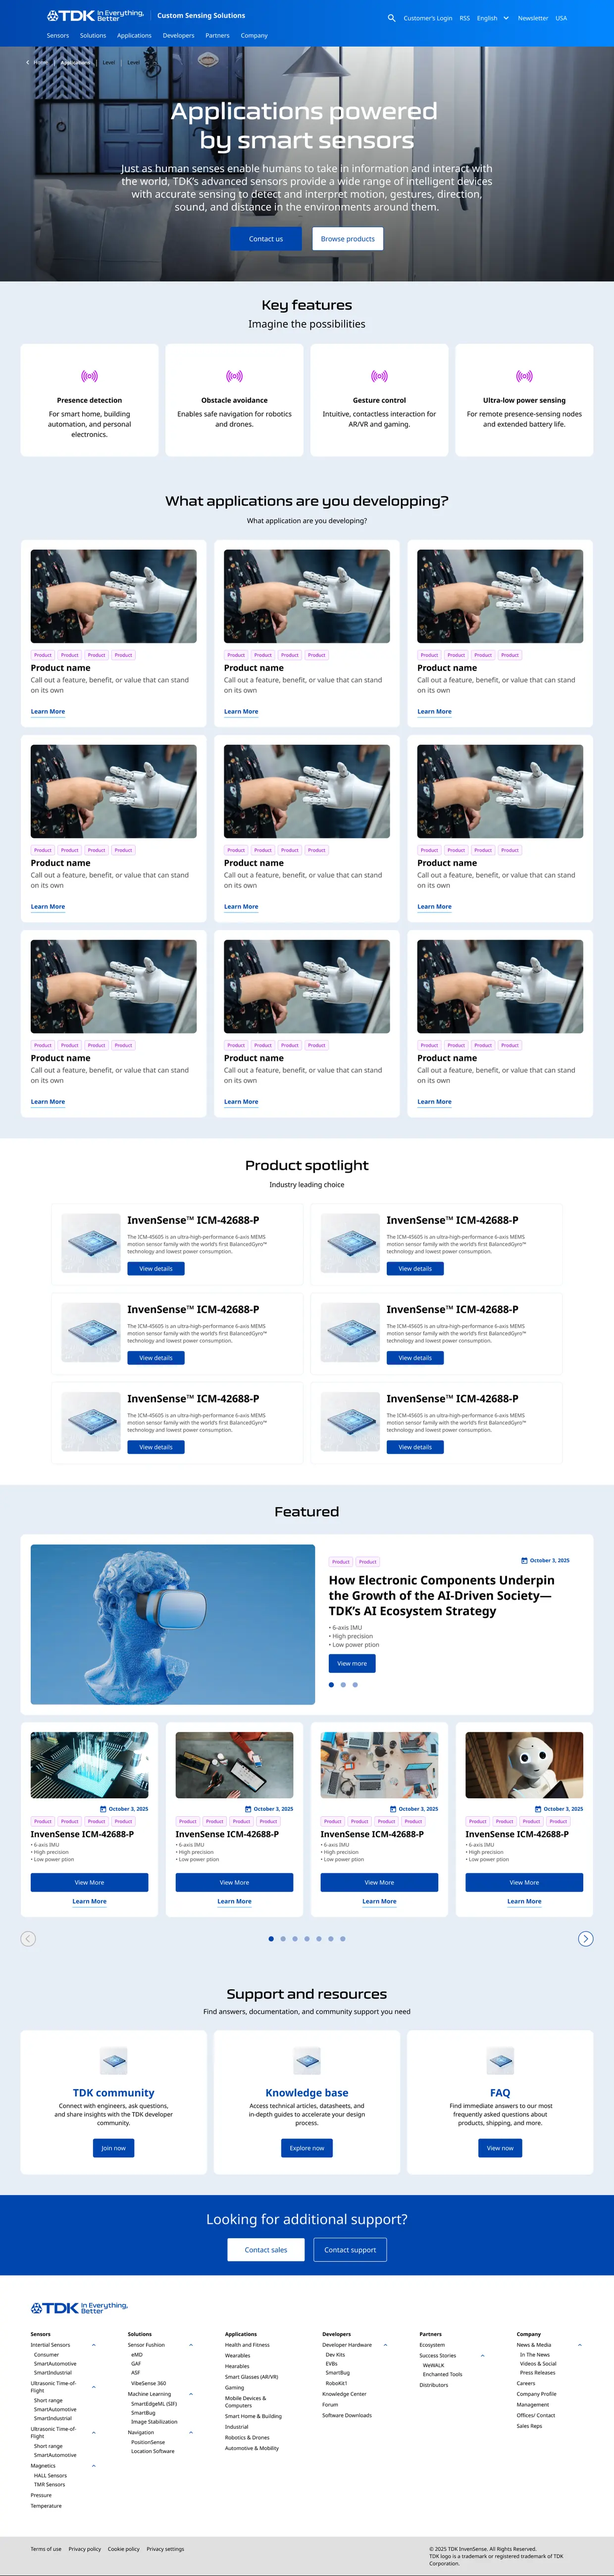
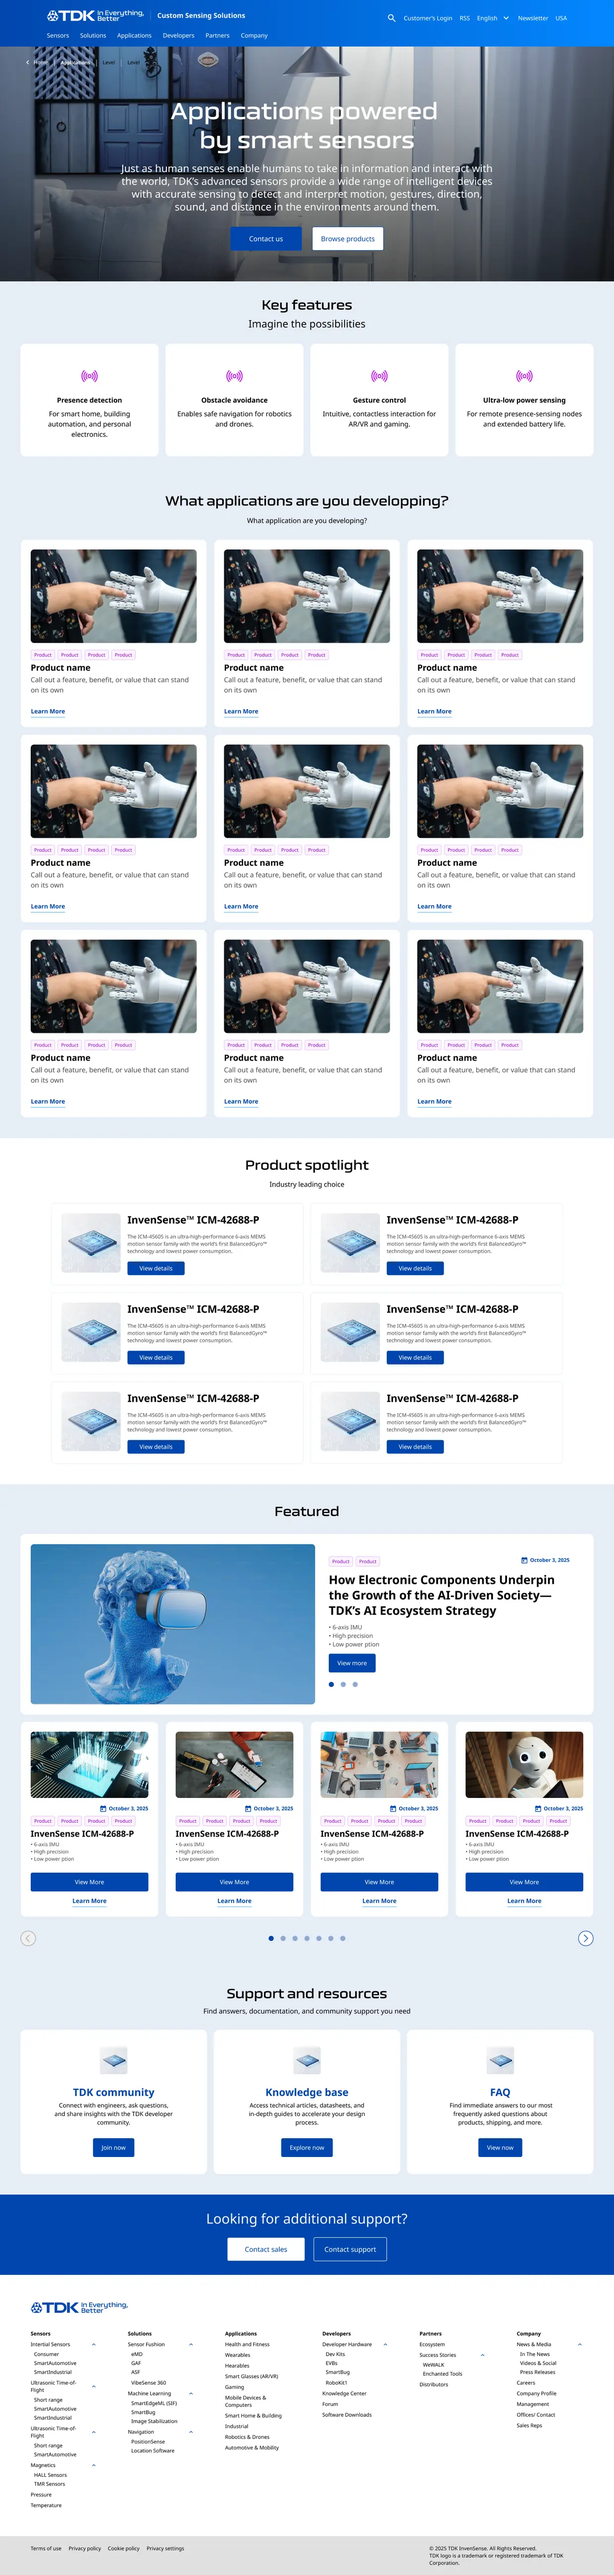
Crop the black off the product wireframe, and run the system boards small
The product wireframe carried a 4px black frame and 854px of empty black
canvas below its last row of content. I checked the block before cutting
it: pure black, not one pixel of anything. Both are gone, and so is a
stray black row at the foot of the applications screenshot.

The design-system boards were running two to a row at roughly 600px.
They are screenshots of a working file, so at that size they were mostly
magnifying their own softness. They now run three to a row at 371px,
which puts every one of them at better than twice its own pixel density.
The wide microinteractions board spans the final row rather than sitting
alone in a third of one.

Tiles share one height so the captions across a row sit on one line, and
each tile scrolls on its own, since the boards are taller than any row
can give them.

Claude-Session: https://claude.ai/code/session_01GRCUht8Xs69ANeh7eZUP1Q

diff --git a/assets/js/img-sizes.js b/assets/js/img-sizes.js
@@ -1,2 +1,2 @@
 /* generated by scripts/image_sizes.py — intrinsic sizes, so lazy images reserve their box */
-window.IMG_SIZES = {"assets/img/clients/abbott.png":[640,161],"assets/img/clients/cea.png":[640,131],"assets/img/clients/disney-store.png":[640,178],"assets/img/clients/onmed.png":[500,148],"assets/img/clients/parle.png":[200,88],"assets/img/clients/popular.png":[454,84],"assets/img/covers/disney-store.webp":[1600,900],"assets/img/covers/pregnancy-app.webp":[1600,900],"assets/img/covers/tdk-invensense.webp":[1600,900],"assets/img/favicon.png":[128,128],"assets/img/life/colouring-book.webp":[900,1200],"assets/img/life/digital-illustration.webp":[1155,1200],"assets/img/life/event-install.webp":[1200,900],"assets/img/life/framed-portraits.webp":[1200,900],"assets/img/life/mountains.webp":[1200,900],"assets/img/life/muskan-bio.webp":[825,1100],"assets/img/life/painting-signage.webp":[900,1200],"assets/img/life/vacation-sign.webp":[900,1200],"assets/img/projects/capshift-01.jpg":[1440,900],"assets/img/projects/capshift-02.jpg":[1440,900],"assets/img/projects/capshift-03.jpg":[1440,900],"assets/img/projects/capshift-04.jpg":[1440,900],"assets/img/projects/mama-01.jpg":[1500,1009],"assets/img/projects/mama-02.jpg":[1500,842],"assets/img/projects/mama-03.jpg":[1500,842],"assets/img/projects/mama-04.jpg":[1300,1657],"assets/img/projects/mama-05.jpg":[390,2497],"assets/img/projects/mama-06.jpg":[390,1622],"assets/img/projects/mama-07.jpg":[390,1333],"assets/img/projects/mama-08.jpg":[390,844],"assets/img/projects/mama-09.jpg":[390,844],"assets/img/projects/parle-01.jpg":[700,1555],"assets/img/projects/parle-02.jpg":[700,1555],"assets/img/projects/parle-03.jpg":[600,1333],"assets/img/projects/parle-04.jpg":[700,1555],"assets/img/projects/parle-05.jpg":[700,1555],"assets/img/projects/popular-01.jpg":[700,1514],"assets/img/projects/popular-02.jpg":[700,1514],"assets/img/projects/popular-03.jpg":[700,1514],"assets/img/projects/popular-04.jpg":[700,1514],"assets/img/projects/popular-05.jpg":[700,1514],"assets/img/projects/tdk/ds-badges.webp":[854,944],"assets/img/projects/tdk/ds-buttons.webp":[940,2788],"assets/img/projects/tdk/ds-checkboxes.webp":[844,1324],"assets/img/projects/tdk/ds-homepage-components.webp":[792,1868],"assets/img/projects/tdk/ds-iconography.webp":[980,1597],"assets/img/projects/tdk/ds-microinteractions.webp":[1042,470],"assets/img/projects/tdk/ds-textinput.webp":[980,1239],"assets/img/projects/tdk/ui-application-detail-desktop.webp":[1240,7683],"assets/img/projects/tdk/ui-application-detail-mobile.webp":[750,14142],"assets/img/projects/tdk/ui-applications-desktop.webp":[1240,5194],"assets/img/projects/tdk/ui-applications-mobile.webp":[750,8718],"assets/img/projects/tdk/ui-community-desktop.webp":[1240,2773],"assets/img/projects/tdk/ui-community-mobile.webp":[750,6254],"assets/img/projects/tdk/ui-product-mobile.webp":[750,14489],"assets/img/projects/tdk/wf-application-detail.webp":[1080,8341],"assets/img/projects/tdk/wf-applications.webp":[1080,5314],"assets/img/projects/tdk/wf-community.webp":[1080,2413],"assets/img/projects/tdk/wf-home.webp":[1080,3799],"assets/img/projects/tdk/wf-product.webp":[1080,5564]};
+window.IMG_SIZES = {"assets/img/clients/abbott.png":[640,161],"assets/img/clients/cea.png":[640,131],"assets/img/clients/disney-store.png":[640,178],"assets/img/clients/onmed.png":[500,148],"assets/img/clients/parle.png":[200,88],"assets/img/clients/popular.png":[454,84],"assets/img/covers/disney-store.webp":[1600,900],"assets/img/covers/pregnancy-app.webp":[1600,900],"assets/img/covers/tdk-invensense.webp":[1600,900],"assets/img/favicon.png":[128,128],"assets/img/life/colouring-book.webp":[900,1200],"assets/img/life/digital-illustration.webp":[1155,1200],"assets/img/life/event-install.webp":[1200,900],"assets/img/life/framed-portraits.webp":[1200,900],"assets/img/life/mountains.webp":[1200,900],"assets/img/life/muskan-bio.webp":[825,1100],"assets/img/life/painting-signage.webp":[900,1200],"assets/img/life/vacation-sign.webp":[900,1200],"assets/img/projects/capshift-01.jpg":[1440,900],"assets/img/projects/capshift-02.jpg":[1440,900],"assets/img/projects/capshift-03.jpg":[1440,900],"assets/img/projects/capshift-04.jpg":[1440,900],"assets/img/projects/mama-01.jpg":[1500,1009],"assets/img/projects/mama-02.jpg":[1500,842],"assets/img/projects/mama-03.jpg":[1500,842],"assets/img/projects/mama-04.jpg":[1300,1657],"assets/img/projects/mama-05.jpg":[390,2497],"assets/img/projects/mama-06.jpg":[390,1622],"assets/img/projects/mama-07.jpg":[390,1333],"assets/img/projects/mama-08.jpg":[390,844],"assets/img/projects/mama-09.jpg":[390,844],"assets/img/projects/parle-01.jpg":[700,1555],"assets/img/projects/parle-02.jpg":[700,1555],"assets/img/projects/parle-03.jpg":[600,1333],"assets/img/projects/parle-04.jpg":[700,1555],"assets/img/projects/parle-05.jpg":[700,1555],"assets/img/projects/popular-01.jpg":[700,1514],"assets/img/projects/popular-02.jpg":[700,1514],"assets/img/projects/popular-03.jpg":[700,1514],"assets/img/projects/popular-04.jpg":[700,1514],"assets/img/projects/popular-05.jpg":[700,1514],"assets/img/projects/tdk/ds-badges.webp":[854,944],"assets/img/projects/tdk/ds-buttons.webp":[940,2788],"assets/img/projects/tdk/ds-checkboxes.webp":[844,1324],"assets/img/projects/tdk/ds-homepage-components.webp":[792,1868],"assets/img/projects/tdk/ds-iconography.webp":[980,1597],"assets/img/projects/tdk/ds-microinteractions.webp":[1042,470],"assets/img/projects/tdk/ds-textinput.webp":[980,1239],"assets/img/projects/tdk/ui-application-detail-desktop.webp":[1240,7683],"assets/img/projects/tdk/ui-application-detail-mobile.webp":[750,14142],"assets/img/projects/tdk/ui-applications-desktop.webp":[1240,5193],"assets/img/projects/tdk/ui-applications-mobile.webp":[750,8718],"assets/img/projects/tdk/ui-community-desktop.webp":[1240,2773],"assets/img/projects/tdk/ui-community-mobile.webp":[750,6254],"assets/img/projects/tdk/ui-product-mobile.webp":[750,14489],"assets/img/projects/tdk/wf-application-detail.webp":[1080,8341],"assets/img/projects/tdk/wf-applications.webp":[1080,5314],"assets/img/projects/tdk/wf-community.webp":[1080,2413],"assets/img/projects/tdk/wf-home.webp":[1080,3799],"assets/img/projects/tdk/wf-product.webp":[1080,4879]};

diff --git a/assets/js/data.js b/assets/js/data.js
@@ -450,29 +450,17 @@ const PROJECTS = [
         ]
       },
       {
-        kind: 'duo',
+        kind: 'grid',
+        note: 'Pages from the library. Each tile scrolls on its own; the boards are taller than the room a row can give them.',
         items: [
           { src: 'assets/img/projects/tdk/ds-buttons.webp', caption: 'Buttons: primary, secondary and ghost, in three sizes, across default, hover, active and disabled' },
-          { src: 'assets/img/projects/tdk/ds-textinput.webp', caption: 'Text input: label, placeholder, icon and helper variants, with error messaging' }
-        ],
-        long: true
-      },
-      {
-        kind: 'duo',
-        items: [
+          { src: 'assets/img/projects/tdk/ds-textinput.webp', caption: 'Text input: label, placeholder, icon and helper variants, with error messaging' },
+          { src: 'assets/img/projects/tdk/ds-checkboxes.webp', caption: 'Checkboxes: default, hover, checked, disabled and error, with helper text' },
           { src: 'assets/img/projects/tdk/ds-badges.webp', caption: 'Badges: three sizes and five semantic tones, annotated' },
-          { src: 'assets/img/projects/tdk/ds-checkboxes.webp', caption: 'Checkboxes: default, hover, checked, disabled and error, with helper text' }
-        ],
-        long: true
-      },
-      { kind: 'full', src: 'assets/img/projects/tdk/ds-iconography.webp', caption: 'The icon set: one weight, one grid, drawn for scannability at small sizes', frame: 'plain', long: true },
-      {
-        kind: 'duo',
-        items: [
-          { src: 'assets/img/projects/tdk/ds-microinteractions.webp', caption: 'Microinteractions: the eight icons that change state on interaction, paired with their active form' },
-          { src: 'assets/img/projects/tdk/ds-homepage-components.webp', caption: 'Page-level patterns: segmented tabs, stats, partner brands, pagination, carousels' }
-        ],
-        long: true
+          { src: 'assets/img/projects/tdk/ds-iconography.webp', caption: 'The icon set: one weight, one grid, drawn for scannability at small sizes' },
+          { src: 'assets/img/projects/tdk/ds-homepage-components.webp', caption: 'Page-level patterns: segmented tabs, stats, partner brands, pagination, carousels' },
+          { src: 'assets/img/projects/tdk/ds-microinteractions.webp', caption: 'Microinteractions: the eight icons that change state on interaction, paired with their active form', span: true }
+        ]
       },
 
       /* ---------- responsive ---------- */

diff --git a/assets/js/project.js b/assets/js/project.js
@@ -329,6 +329,26 @@
       '</section>';
     },
 
+    /* Small boards, several to a row. Design-system sheets are screenshots
+       of a working file: shown large they magnify their own softness, so
+       they run three-up and every one lands well under its own width. */
+    grid: function (b) {
+      return '<section class="blk reveal">' +
+        (b.title ? '<h2 class="blk__title">' + E(b.title) + '</h2>' : '') +
+        (b.note ? '<p class="blk__note">' + E(b.note) + '</p>' : '') +
+        '<div class="gridshots">' + (b.items || []).map(function (it) {
+          return '<figure class="gridshot' + (it.span ? ' gridshot--span' : '') + '">' +
+            '<div class="shot shot--tile"' + capStyle(it.src, it.device) +
+              scrollable(true, it.caption) + '>' +
+              '<img src="' + it.src + '"' + dims(it.src) + ' alt="' + E(it.caption || '') +
+                '" loading="lazy" decoding="async">' +
+            '</div>' +
+            '<figcaption>' + E(it.caption || '') + '</figcaption>' +
+          '</figure>';
+        }).join('') + '</div>' +
+      '</section>';
+    },
+
     /* A closing link out to the thing that shipped. */
     live: function (b) {
       return '<section class="blk live reveal">' +

diff --git a/assets/css/case.css b/assets/css/case.css
@@ -502,6 +502,33 @@ figure > figcaption,
   font-weight: 700;
 }
 
+/* --- a grid of small boards --- */
+
+.gridshots {
+  margin-top: var(--s-5);
+  display: grid;
+  grid-template-columns: repeat(3, minmax(0, 1fr));
+  gap: var(--s-5) var(--s-4);
+  align-items: start;
+}
+.gridshot--span { grid-column: 1 / -1; }
+/* A tile is a window on a taller board: same height across the row, each
+   one scrolling on its own. */
+/* One height for every tile, so captions across a row sit on one line.
+   A board shorter than the window simply ends; they are white-ground
+   boards, so the remainder reads as the sheet rather than as a gap. */
+.shot--tile { height: 28rem; overflow-y: auto; overscroll-behavior: contain; }
+.gridshot--span .shot--tile { height: 22rem; }
+.gridshot figcaption { margin-top: var(--s-2); }
+
+@media (max-width: 900px) {
+  .gridshots { grid-template-columns: repeat(2, minmax(0, 1fr)); }
+}
+@media (max-width: 560px) {
+  .gridshots { grid-template-columns: 1fr; }
+  .shot--tile { height: 22rem; }
+}
+
 /* --- the closing link out to the live site --- */
 
 .live {
